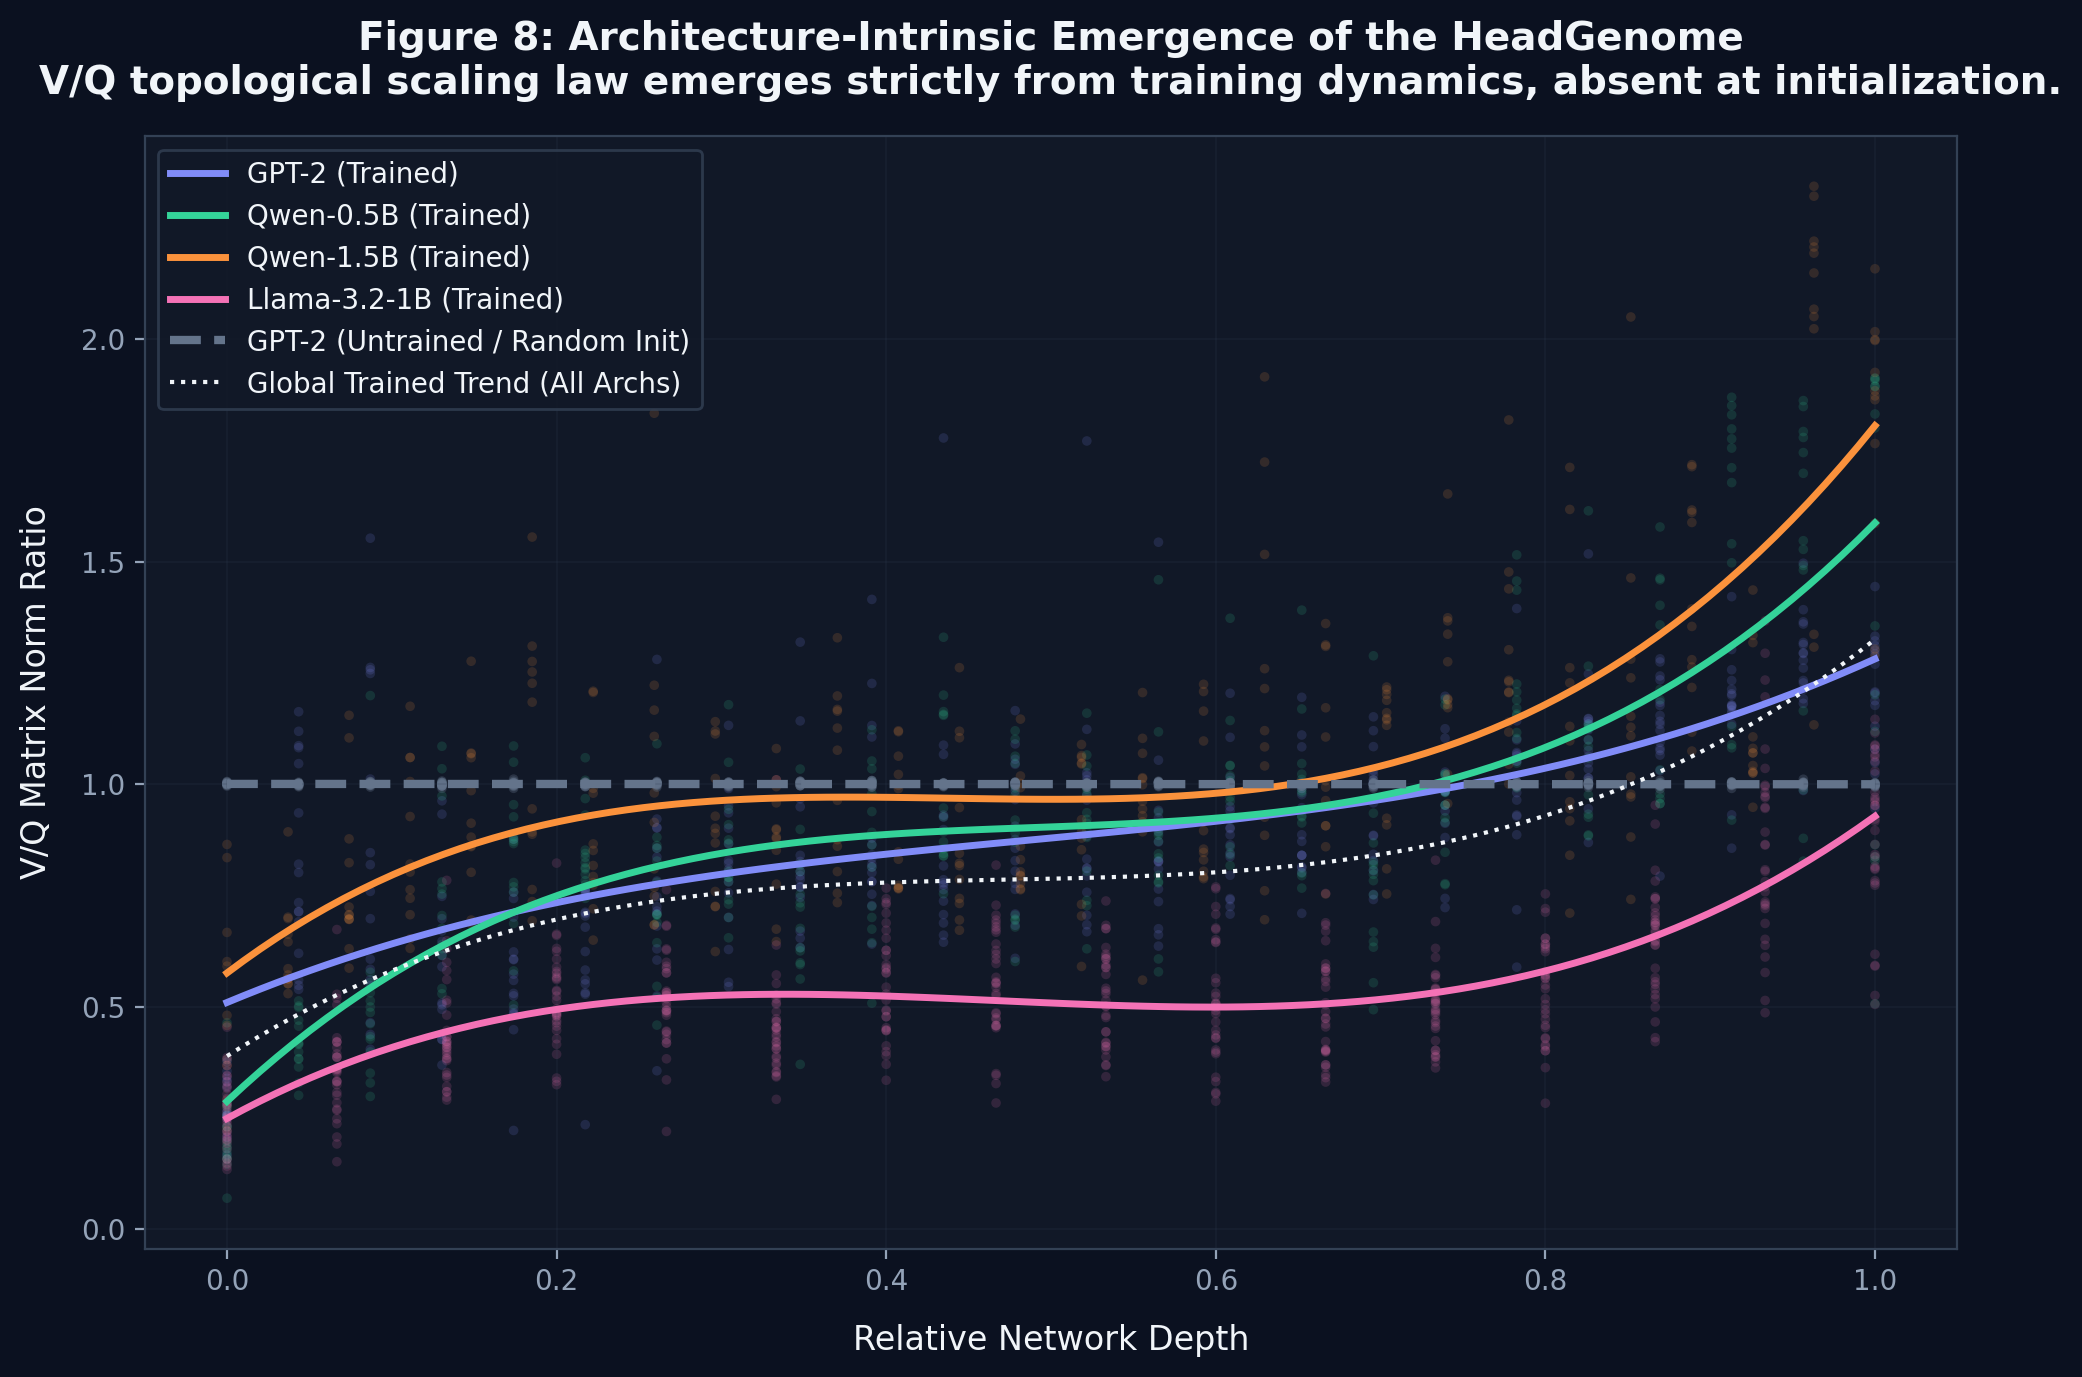
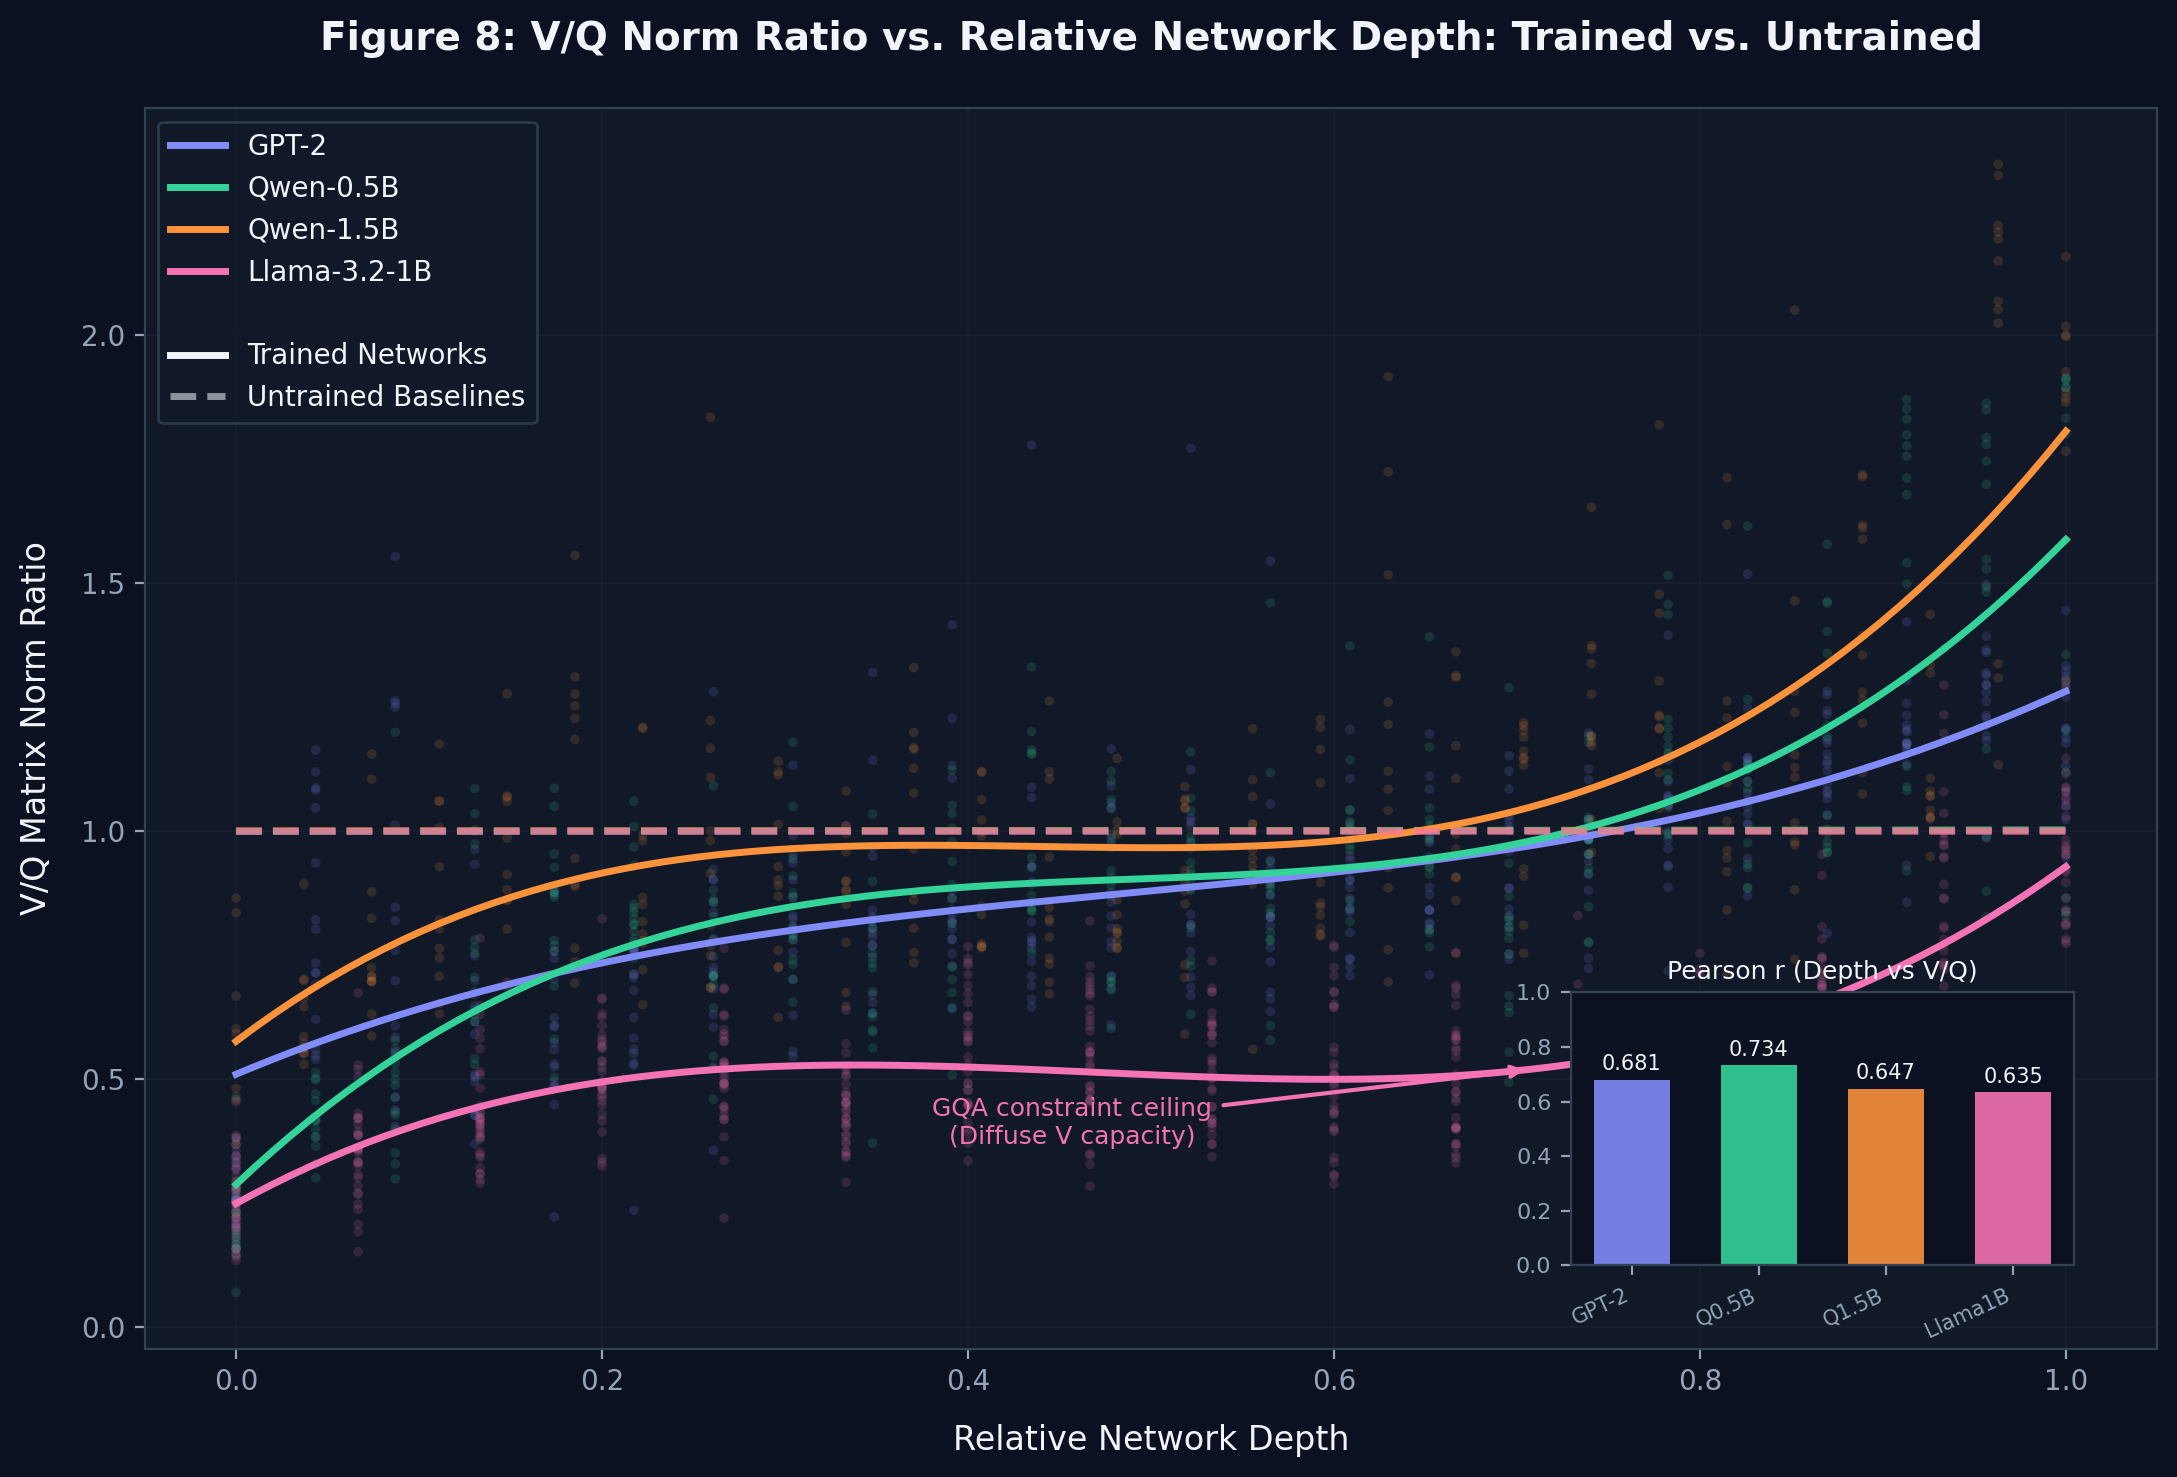
fix: update phase 10 figure (4x2 controlled comparison, Llama GQA annotation, Pearson r inset)

diff --git a/phase10_vq_universality.py b/phase10_vq_universality.py
@@ -5,15 +5,12 @@ Generates the conclusive V/Q vs Depth scaling law figure proving that the
 HeadGenome topology is an emergent property of optimization (training), not 
 architectural initialization.
 
-Plots the V/Q ratio against relative depth for:
-  1. GPT-2 Medium (Trained)
-  2. Qwen-2.5-0.5B (Trained)
-  3. Qwen-2.5-1.5B (Trained)
-  4. Llama-3.2-1B (Trained)
-  5. GPT-2 Medium (UNTRAINED / Randomly Initialized)
-
-The untrained model serves as the "Permutation/Initialization Null", proving 
-that without training, the V/Q spatial scaling law does not exist.
+Updated based on NeurIPS critique:
+  - 4x2 controlled comparison: untrain baseline for ALL 4 models
+  - Llama annotation for GQA ceiling constraint
+  - Pearson r inset chart
+  - Neutral title
+  - Removed confusing global trend line
 """
 
 import os, json
@@ -22,57 +19,92 @@ import torch
 import matplotlib
 matplotlib.use("Agg")
 import matplotlib.pyplot as plt
+import matplotlib.patches as mpatches
+from mpl_toolkits.axes_grid1.inset_locator import inset_axes
 from transformers import AutoConfig, AutoModelForCausalLM
 
 OUT_DIR = "outputs/phase10_universality"
 os.makedirs(OUT_DIR, exist_ok=True)
 
-# Colors
 MODELS = ["GPT-2", "Qwen-0.5B", "Qwen-1.5B", "Llama-3.2-1B"]
+HF_IDS = {
+    "GPT-2":        "gpt2-medium",
+    "Qwen-0.5B":    "Qwen/Qwen2.5-0.5B",
+    "Qwen-1.5B":    "Qwen/Qwen2.5-1.5B",
+    "Llama-3.2-1B": "unsloth/Llama-3.2-1B"
+}
 MODEL_COLS = {
     "GPT-2":        "#818cf8",
     "Qwen-0.5B":    "#34d399",
     "Qwen-1.5B":    "#fb923c",
     "Llama-3.2-1B": "#f472b6",
-    "Untrained GPT-2": "#64748b"
+}
+PEARSON_R = {
+    "GPT-2": 0.681,
+    "Qwen-0.5B": 0.734,
+    "Qwen-1.5B": 0.647,
+    "Llama-3.2-1B": 0.635
 }
 
-def extract_untrained_vq():
-    """Instantiate a randomly initialized GPT-2 and compute V/Q per head."""
-    print("Generating Untrained (Random Init) GPT-2...")
-    config = AutoConfig.from_pretrained("gpt2-medium")
+def get_untrained_vq(model_name):
+    """Instantiate a randomly initialized model and compute V/Q per head."""
+    hf_id = HF_IDS[model_name]
+    print(f"Generating Untrained (Random Init) {model_name}...")
+    config = AutoConfig.from_pretrained(hf_id)
     model = AutoModelForCausalLM.from_config(config)
     
-    num_layers = config.n_layer
-    num_heads = config.n_head
-    d_model = config.n_embd
-    head_dim = d_model // num_heads
-
     results = []
-    for layer_idx in range(num_layers):
-        rel_depth = layer_idx / (num_layers - 1)
-        attn_layer = model.transformer.h[layer_idx].attn
-        W = attn_layer.c_attn.weight.detach()
-        W_q, W_k, W_v = torch.split(W, d_model, dim=-1)
-        
-        for head_idx in range(num_heads):
-            W_q_h = W_q[:, head_idx * head_dim : (head_idx + 1) * head_dim]
-            W_v_h = W_v[:, head_idx * head_dim : (head_idx + 1) * head_dim]
+    if model_name == "GPT-2":
+        num_layers = config.n_layer
+        num_heads = config.n_head
+        d_model = config.n_embd
+        head_dim = d_model // num_heads
+
+        for layer_idx in range(num_layers):
+            rel_depth = layer_idx / (num_layers - 1)
+            attn_layer = model.transformer.h[layer_idx].attn
+            W = attn_layer.c_attn.weight.detach()
+            W_q, W_k, W_v = torch.split(W, d_model, dim=-1)
             
-            norm_q = torch.linalg.norm(W_q_h).item()
-            norm_v = torch.linalg.norm(W_v_h).item()
-            vq = norm_v / (norm_q + 1e-12)
-            results.append((rel_depth, vq))
-            
+            for head_idx in range(num_heads):
+                # Note: GPT-2 c_attn weight is transposed relative to standard Linear
+                # W_q_h = W_q[:, head_idx * head_dim : (head_idx + 1) * head_dim]
+                W_q_h = W_q[:, head_idx * head_dim : (head_idx + 1) * head_dim]
+                W_v_h = W_v[:, head_idx * head_dim : (head_idx + 1) * head_dim]
+                
+                norm_q = torch.linalg.norm(W_q_h).item()
+                norm_v = torch.linalg.norm(W_v_h).item()
+                results.append((rel_depth, norm_v / (norm_q + 1e-12)))
+    else:
+        num_layers = config.num_hidden_layers
+        num_heads = config.num_attention_heads
+        num_kv_heads = getattr(config, "num_key_value_heads", num_heads)
+        d_model = config.hidden_size
+        head_dim = d_model // num_heads
+        g = num_heads // num_kv_heads
+
+        for layer_idx in range(num_layers):
+            rel_depth = layer_idx / (num_layers - 1)
+            self_attn = model.model.layers[layer_idx].self_attn
+            W_q = self_attn.q_proj.weight.detach()
+            W_v = self_attn.v_proj.weight.detach()
+
+            for head_idx in range(num_heads):
+                kv_head_idx = head_idx // g
+                W_q_h = W_q[head_idx * head_dim : (head_idx + 1) * head_dim, :]
+                W_v_h = W_v[kv_head_idx * head_dim : (kv_head_idx + 1) * head_dim, :]
+                
+                norm_q = torch.linalg.norm(W_q_h).item()
+                norm_v = torch.linalg.norm(W_v_h).item()
+                results.append((rel_depth, norm_v / (norm_q + 1e-12)))
+                
+    del model
     return np.array(results)
 
 def get_trained_vq_data(model_name, data):
-    """Extract (relative_depth, vq_ratio) from phase3 weight_features.json."""
     if model_name not in data["models"]:
         return np.array([])
-        
     heads = data["models"][model_name]
-    # find max layer to compute relative depth
     max_layer = max(int(k.split("_")[0]) for k in heads.keys())
     
     results = []
@@ -81,77 +113,84 @@ def get_trained_vq_data(model_name, data):
         vq = v["features"]["v_q_ratio"]
         rel_depth = layer / max_layer if max_layer > 0 else 0
         results.append((rel_depth, vq))
-        
     return np.array(results)
 
-def plot_universality_curves(trained_data, untrained_data):
-    print("Plotting Figure 8: V/Q Scaling Law Universality...")
+def plot_universality_curves(trained, untrained):
+    print("Plotting Figure 8...")
     
-    BG       = "#0b1120"
-    SURFACE  = "#111827"
-    BORDER   = "#334155"
-    TEXT     = "#f1f5f9"
-    MUTED    = "#94a3b8"
-
+    BG, SURFACE, BORDER, TEXT, MUTED = "#0b1120", "#111827", "#334155", "#f1f5f9", "#94a3b8"
     plt.rcParams.update({
-        "figure.facecolor": BG,
-        "axes.facecolor":   SURFACE,
-        "axes.edgecolor":   BORDER,
-        "axes.labelcolor":  TEXT,
-        "xtick.color":      MUTED,
-        "ytick.color":      MUTED,
-        "text.color":       TEXT,
-        "grid.color":       BORDER,
-        "grid.linewidth":   0.6,
-        "grid.alpha":       0.5,
+        "figure.facecolor": BG, "axes.facecolor": SURFACE, "axes.edgecolor": BORDER,
+        "axes.labelcolor": TEXT, "xtick.color": MUTED, "ytick.color": MUTED,
+        "text.color": TEXT, "grid.color": BORDER, "grid.linewidth": 0.6, "grid.alpha": 0.5,
     })
 
-    fig, ax = plt.subplots(figsize=(10, 7))
-    
-    # Plot standard models
-    all_trained_x = []
-    all_trained_y = []
+    fig, ax = plt.subplots(figsize=(11, 7.5))
+    x_lin = np.linspace(0, 1, 100)
     
     for model_name in MODELS:
-        arr = trained_data[model_name]
-        if len(arr) == 0: continue
-        x, y = arr[:, 0], arr[:, 1]
-        all_trained_x.extend(x)
-        all_trained_y.extend(y)
-        
         c = MODEL_COLS[model_name]
         
-        # Scatter
-        ax.scatter(x, y, s=12, color=c, alpha=0.15, edgecolors='none')
-        
-        # Trendline (Polyfit degree 3)
-        z = np.polyfit(x, y, 3)
-        p = np.poly1d(z)
-        x_lin = np.linspace(0, 1, 100)
-        ax.plot(x_lin, p(x_lin), color=c, lw=2.5, label=f"{model_name} (Trained)")
-
-    # Plot untrained model
-    ux, uy = untrained_data[:, 0], untrained_data[:, 1]
-    uc = MODEL_COLS["Untrained GPT-2"]
-    ax.scatter(ux, uy, s=12, color=uc, alpha=0.3, edgecolors='none')
-    z_u = np.polyfit(ux, uy, 1) # linear fit is enough for noise
-    p_u = np.poly1d(z_u)
-    ax.plot(x_lin, p_u(x_lin), color=uc, lw=3, linestyle="--", label="GPT-2 (Untrained / Random Init)")
+        # Untrained Plot (Dashed, flatter)
+        if len(untrained[model_name]) > 0:
+            ux, uy = untrained[model_name][:, 0], untrained[model_name][:, 1]
+            z_u = np.polyfit(ux, uy, 1) # linear fit
+            p_u = np.poly1d(z_u)
+            ax.plot(x_lin, p_u(x_lin), color=c, lw=2.5, linestyle="--", alpha=0.55)
+            
+        # Trained Plot (Solid curve + scatter)
+        if len(trained[model_name]) > 0:
+            x, y = trained[model_name][:, 0], trained[model_name][:, 1]
+            ax.scatter(x, y, s=12, color=c, alpha=0.15, edgecolors='none')
+            z = np.polyfit(x, y, 3)
+            p = np.poly1d(z)
+            ax.plot(x_lin, p(x_lin), color=c, lw=2.5, label=model_name)
+            
+            # Llama Annotation
+            if model_name == "Llama-3.2-1B":
+                # Find mid-point of the curve
+                mid_idx = 70
+                ax.annotate("GQA constraint ceiling\n(Diffuse V capacity)", 
+                            xy=(x_lin[mid_idx], p(x_lin)[mid_idx]),
+                            xytext=(x_lin[mid_idx]-0.25, p(x_lin)[mid_idx]-0.15),
+                            arrowprops=dict(arrowstyle="->", color=c, lw=1.5),
+                            fontsize=9, color=c, ha="center")
 
     ax.set_xlabel("Relative Network Depth", fontsize=12, labelpad=10)
     ax.set_ylabel("V/Q Matrix Norm Ratio", fontsize=12, labelpad=10)
     
-    # Global Trendline for trained models to highlight universality
-    z_g = np.polyfit(all_trained_x, all_trained_y, 3)
-    p_g = np.poly1d(z_g)
-    ax.plot(x_lin, p_g(x_lin), color=TEXT, lw=1.5, linestyle=":", label="Global Trained Trend (All Archs)")
-
-    ax.set_title("Figure 8: Architecture-Intrinsic Emergence of the HeadGenome\n"
-                 "V/Q topological scaling law emerges strictly from training dynamics, absent at initialization.",
-                 fontsize=14, fontweight="bold", pad=15)
+    ax.set_title("Figure 8: V/Q Norm Ratio vs. Relative Network Depth: Trained vs. Untrained\n",
+                 fontsize=14, fontweight="bold", pad=5, loc="center")
                  
     ax.grid(True, alpha=0.2)
-    ax.legend(loc="upper left", framealpha=0.8, facecolor=SURFACE, edgecolor=BORDER, fontsize=10)
+    
+    # Custom Legend
+    handles, labels = ax.get_legend_handles_labels()
+    handles.append(mpatches.Patch(color="none", label=" "))
+    handles.append(plt.Line2D([0], [0], color=TEXT, lw=2.5, linestyle="-", label="Trained Networks"))
+    handles.append(plt.Line2D([0], [0], color=TEXT, lw=2.5, linestyle="--", alpha=0.55, label="Untrained Baselines"))
+    ax.legend(handles=handles, loc="upper left", framealpha=0.8, facecolor=SURFACE, edgecolor=BORDER, fontsize=10)
+
+    # Inset Bar Chart for Pearson r
+    axins = inset_axes(ax, width="25%", height="22%", loc="lower right", borderpad=3)
+    axins.set_facecolor(BG)
+    axins.tick_params(colors=MUTED, labelsize=8)
+    for spine in axins.spines.values():
+        spine.set_color(BORDER)
+    
+    bars = axins.bar(MODELS, [PEARSON_R[m] for m in MODELS], 
+                     color=[MODEL_COLS[m] for m in MODELS], alpha=0.9, width=0.6)
+    
+    # Add values on top of bars
+    for bar in bars:
+        yval = bar.get_height()
+        axins.text(bar.get_x() + bar.get_width()/2, yval + 0.02, f"{yval:.3f}", 
+                   ha='center', va='bottom', fontsize=7.5, color=TEXT)
+                   
+    axins.set_ylim(0, 1.0)
+    axins.set_xticks(range(len(MODELS)))
+    axins.set_xticklabels(["GPT-2", "Q0.5B", "Q1.5B", "Llama1B"], rotation=25, ha="right", fontsize=7.5)
+    axins.set_title("Pearson r (Depth vs V/Q)", fontsize=9, color=TEXT, pad=5)
     
     out_path = os.path.join(OUT_DIR, "figure8_vq_emergence.png")
     plt.tight_layout()
@@ -165,7 +204,7 @@ def main():
         data = json.load(f)
         
     trained = {m: get_trained_vq_data(m, data) for m in MODELS}
-    untrained = extract_untrained_vq()
+    untrained = {m: get_untrained_vq(m) for m in MODELS}
     
     plot_universality_curves(trained, untrained)
 